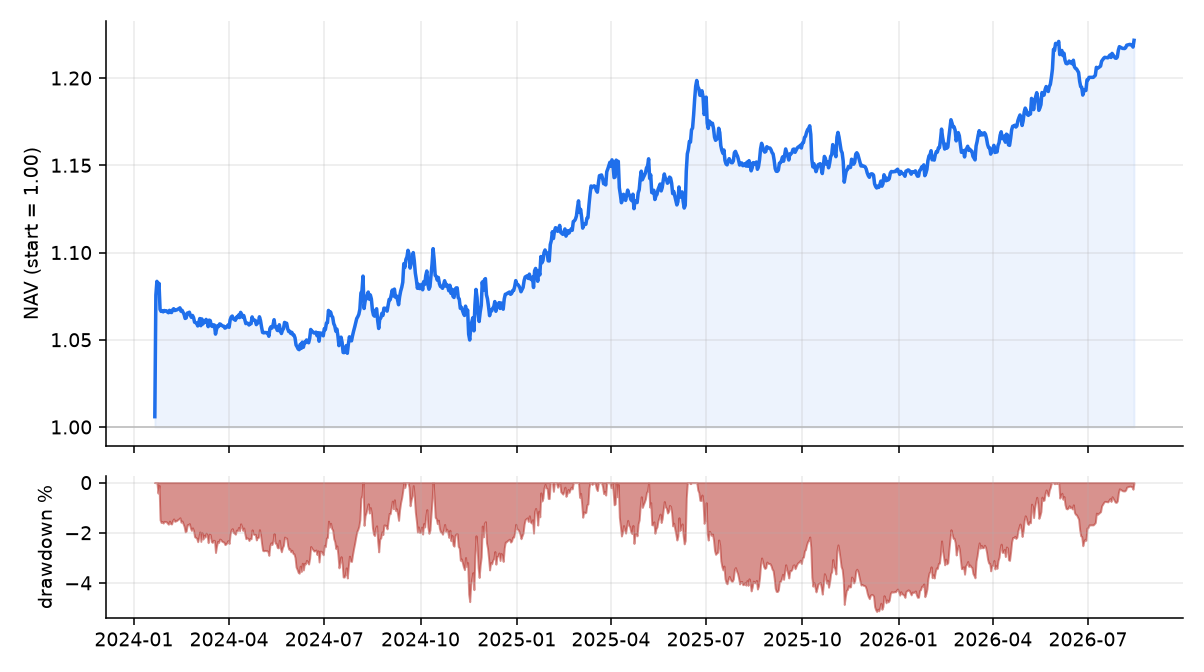
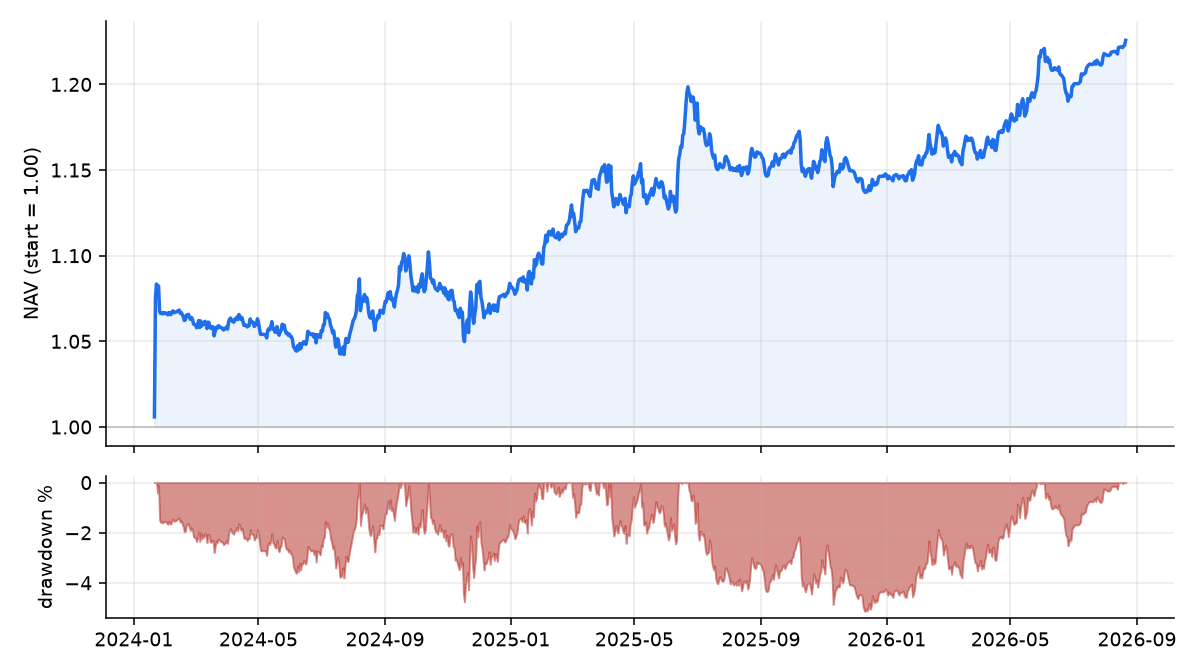
live: NAV update 2026-08-31T09:18Z

diff --git a/index.html b/index.html
@@ -3,7 +3,7 @@
 <title>Alpha Research — Live Book</title>
 <meta name="description" content="Live paper-traded NAV of the Alpha Research diversified risk-premium book: crypto carry/trend + FX carry/value, risk-parity, vol-targeted, net of costs. Updated daily.">
 <meta property="og:title" content="Alpha Research — Live Book">
-<meta property="og:description" content="Paper-traded NAV of the diversified risk-premium book, updated daily. Sharpe 0.91, NAV 1.222 since 2024-01-01.">
+<meta property="og:description" content="Paper-traded NAV of the diversified risk-premium book, updated daily. Sharpe 0.93, NAV 1.226 since 2024-01-01.">
 <meta property="og:type" content="website"><meta property="og:url" content="https://alpha.vineai.tech/">
 <meta property="og:image" content="https://alpha.vineai.tech/nav.png">
 <meta property="og:image:width" content="1204"><meta property="og:image:height" content="672">
@@ -36,18 +36,18 @@ footer{margin-top:46px;padding-top:16px;border-top:1px solid var(--rule);color:v
 <header>
   <div class="tag">Alpha Research · Live Book</div>
   <h1>The diversified risk-premium book, paper-traded live</h1>
-  <p class="sub">Inception 2024-01-01 · data through 2026-08-14 · updated 2026-08-30 09:18:04 UTC<br>
+  <p class="sub">Inception 2024-01-01 · data through 2026-08-21 · updated 2026-08-31 09:18:10 UTC<br>
   The capstone of the <a href="https://bryanvine.github.io/alpha-research/">Alpha Research</a> series
   (<a href="https://bryanvine.github.io/alpha-research/paper7.html">Paper 7</a>), tracked forward as a paper portfolio.</p>
 </header>
 
-<div class="cards"><div class="card"><div class="k">NAV</div><div class="v pos">1.222</div></div><div class="card"><div class="k">Total return</div><div class="v pos">+22.2%</div></div><div class="card"><div class="k">Annualized</div><div class="v pos">+5.6%</div></div><div class="card"><div class="k">Sharpe</div><div class="v pos">0.91</div></div><div class="card"><div class="k">Volatility</div><div class="v mut">6.2%</div></div><div class="card"><div class="k">Max drawdown</div><div class="v neg">-5.1%</div></div></div>
+<div class="cards"><div class="card"><div class="k">NAV</div><div class="v pos">1.226</div></div><div class="card"><div class="k">Total return</div><div class="v pos">+22.6%</div></div><div class="card"><div class="k">Annualized</div><div class="v pos">+5.7%</div></div><div class="card"><div class="k">Sharpe</div><div class="v pos">0.93</div></div><div class="card"><div class="k">Volatility</div><div class="v mut">6.2%</div></div><div class="card"><div class="k">Max drawdown</div><div class="v neg">-5.1%</div></div></div>
 
 <figure><img src="nav.png" alt="Live NAV equity curve and drawdown"></figure>
 
 <h2>Current target weights &amp; sleeve performance</h2>
 <table><thead><tr><th>Sleeve</th><th>Weight</th><th>Sharpe (since inception)</th></tr></thead>
-<tbody><tr><td>FX value</td><td>49.8%</td><td class="neg">-0.66</td></tr><tr><td>FX carry</td><td>40.0%</td><td class="pos">+0.73</td></tr><tr><td>Crypto funding carry</td><td>6.0%</td><td class="pos">+0.96</td></tr><tr><td>Crypto trend</td><td>4.2%</td><td class="pos">+0.18</td></tr></tbody></table>
+<tbody><tr><td>FX value</td><td>49.0%</td><td class="neg">-0.65</td></tr><tr><td>FX carry</td><td>40.2%</td><td class="pos">+0.76</td></tr><tr><td>Crypto funding carry</td><td>5.9%</td><td class="pos">+0.96</td></tr><tr><td>Crypto trend</td><td>4.8%</td><td class="pos">+0.18</td></tr></tbody></table>
 
 <div class="note"><strong>What this is.</strong> A risk-parity, 10%/yr-vol-targeted combination of the
 daily-tradable survivors from the research program — crypto funding carry, crypto trend, and G10 FX
